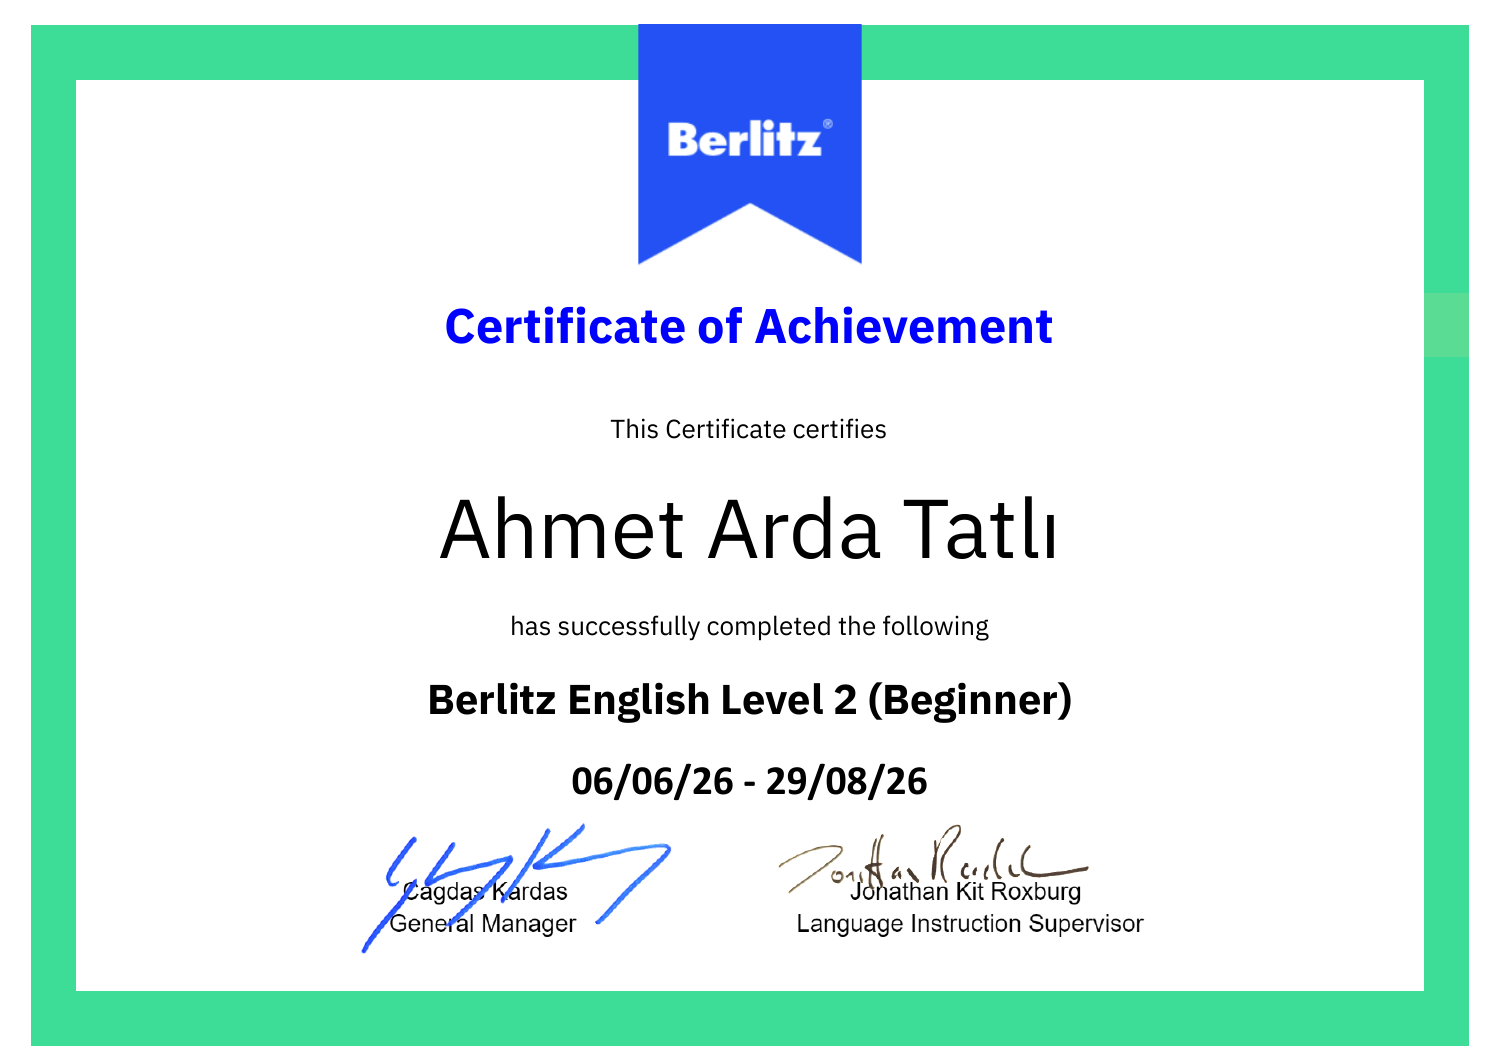
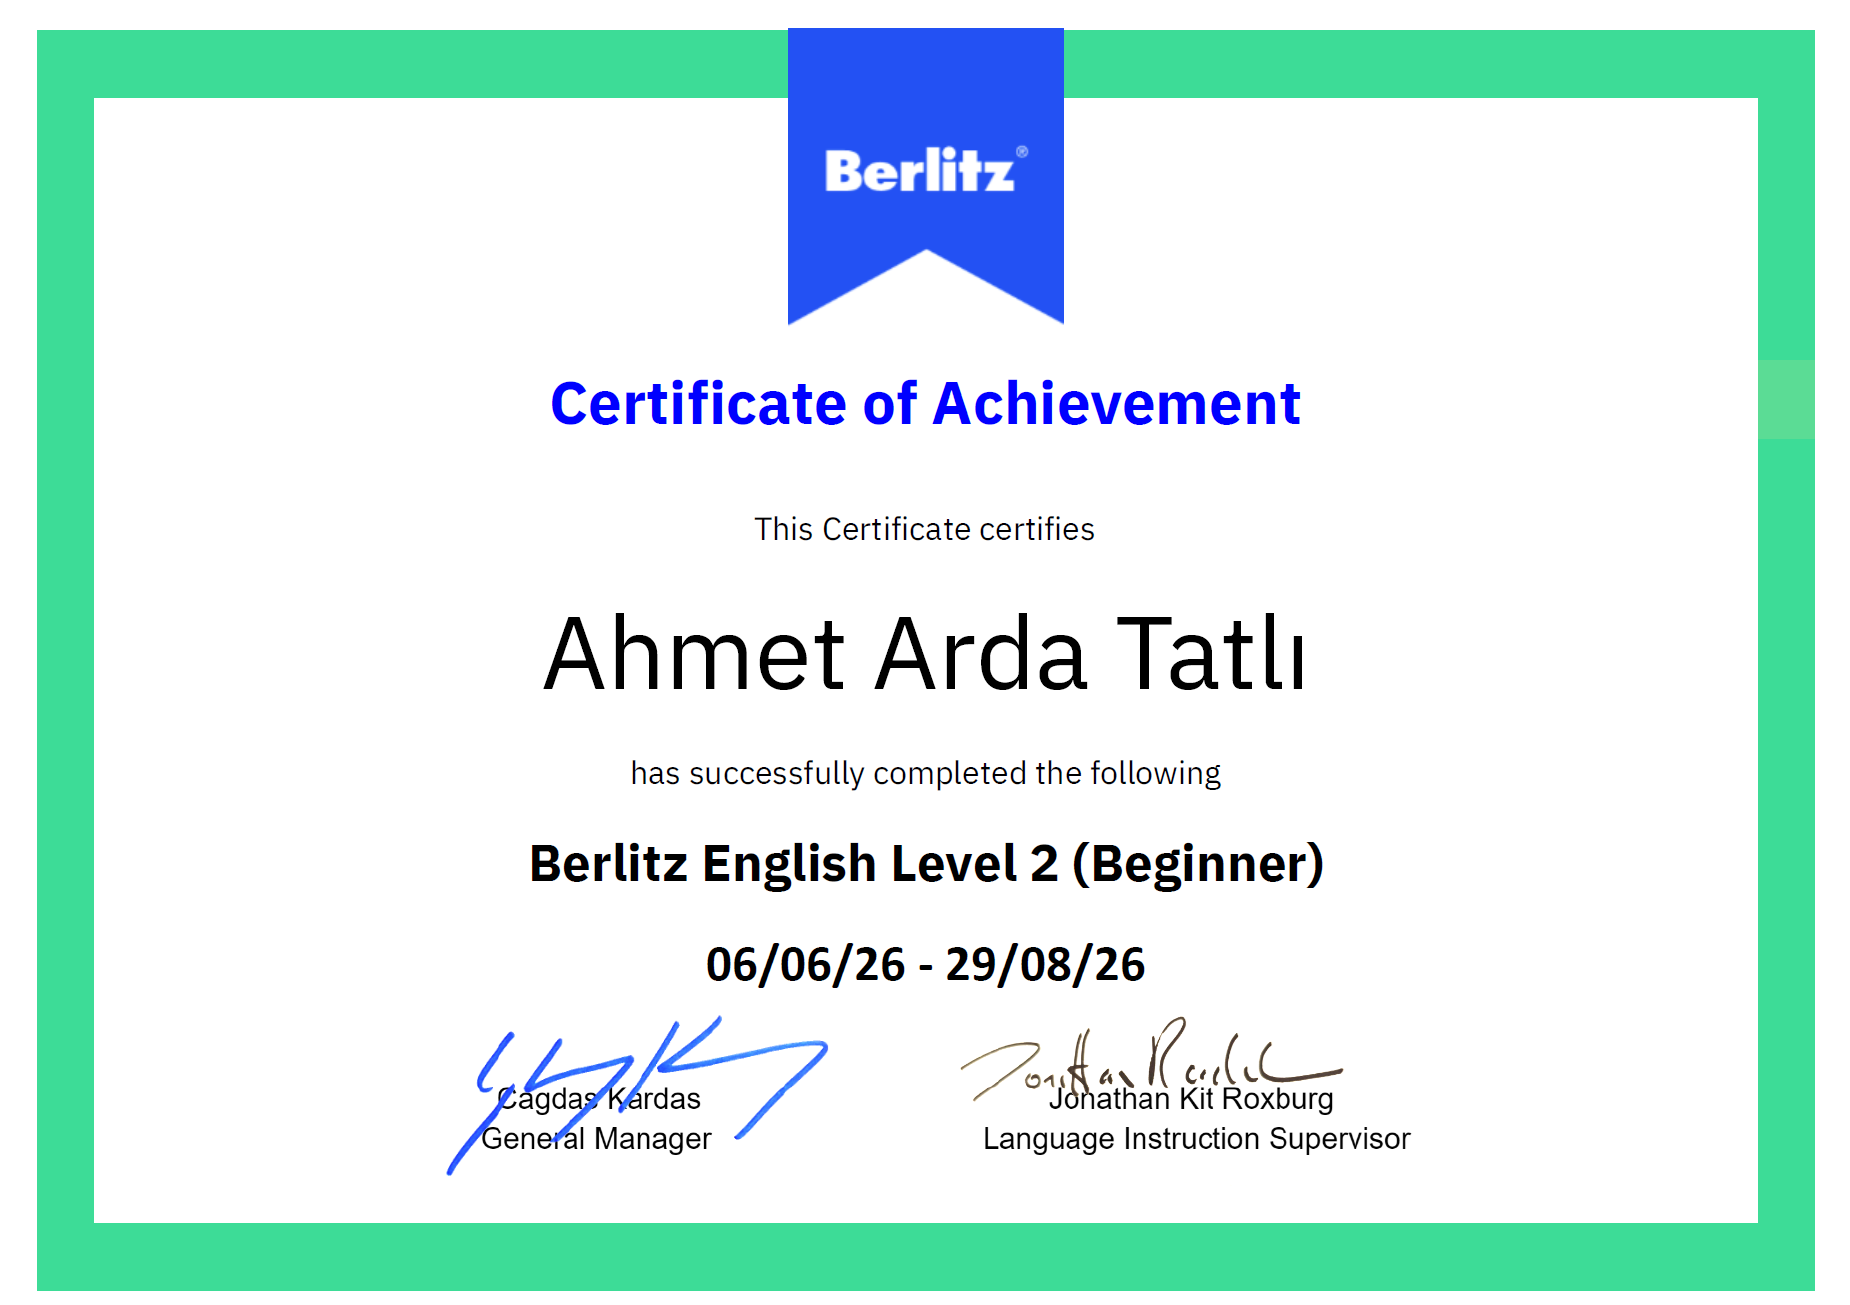
Use supplied Berlitz certificate image

diff --git a/app/page.tsx b/app/page.tsx
@@ -178,16 +178,16 @@ export default function Home() {
         </a>
         <a
           className="certificate-card"
-          href="/berlitz-english-level-2.pdf"
+          href="/berlitz-english-level-2-preview.png"
           target="_blank"
           rel="noreferrer"
-          aria-label="Berlitz English Level 2 sertifikasını PDF olarak aç"
+          aria-label="Berlitz English Level 2 sertifikasını tam boy aç"
         >
           <div className="certificate-copy">
             <small>SERTİFİKA / 2026</small>
             <h3>Berlitz English<br />Level 2</h3>
             <p>Berlitz English Level 2 (Beginner) programı başarı sertifikası.</p>
-            <span>PDF olarak görüntüle ↗</span>
+            <span>Tam boy görüntüle ↗</span>
           </div>
           <div className="certificate-preview">
             <img src="/berlitz-english-level-2-preview.png" alt="Ahmet Arda Tatlı Berlitz English Level 2 sertifikasının ön izlemesi" />
